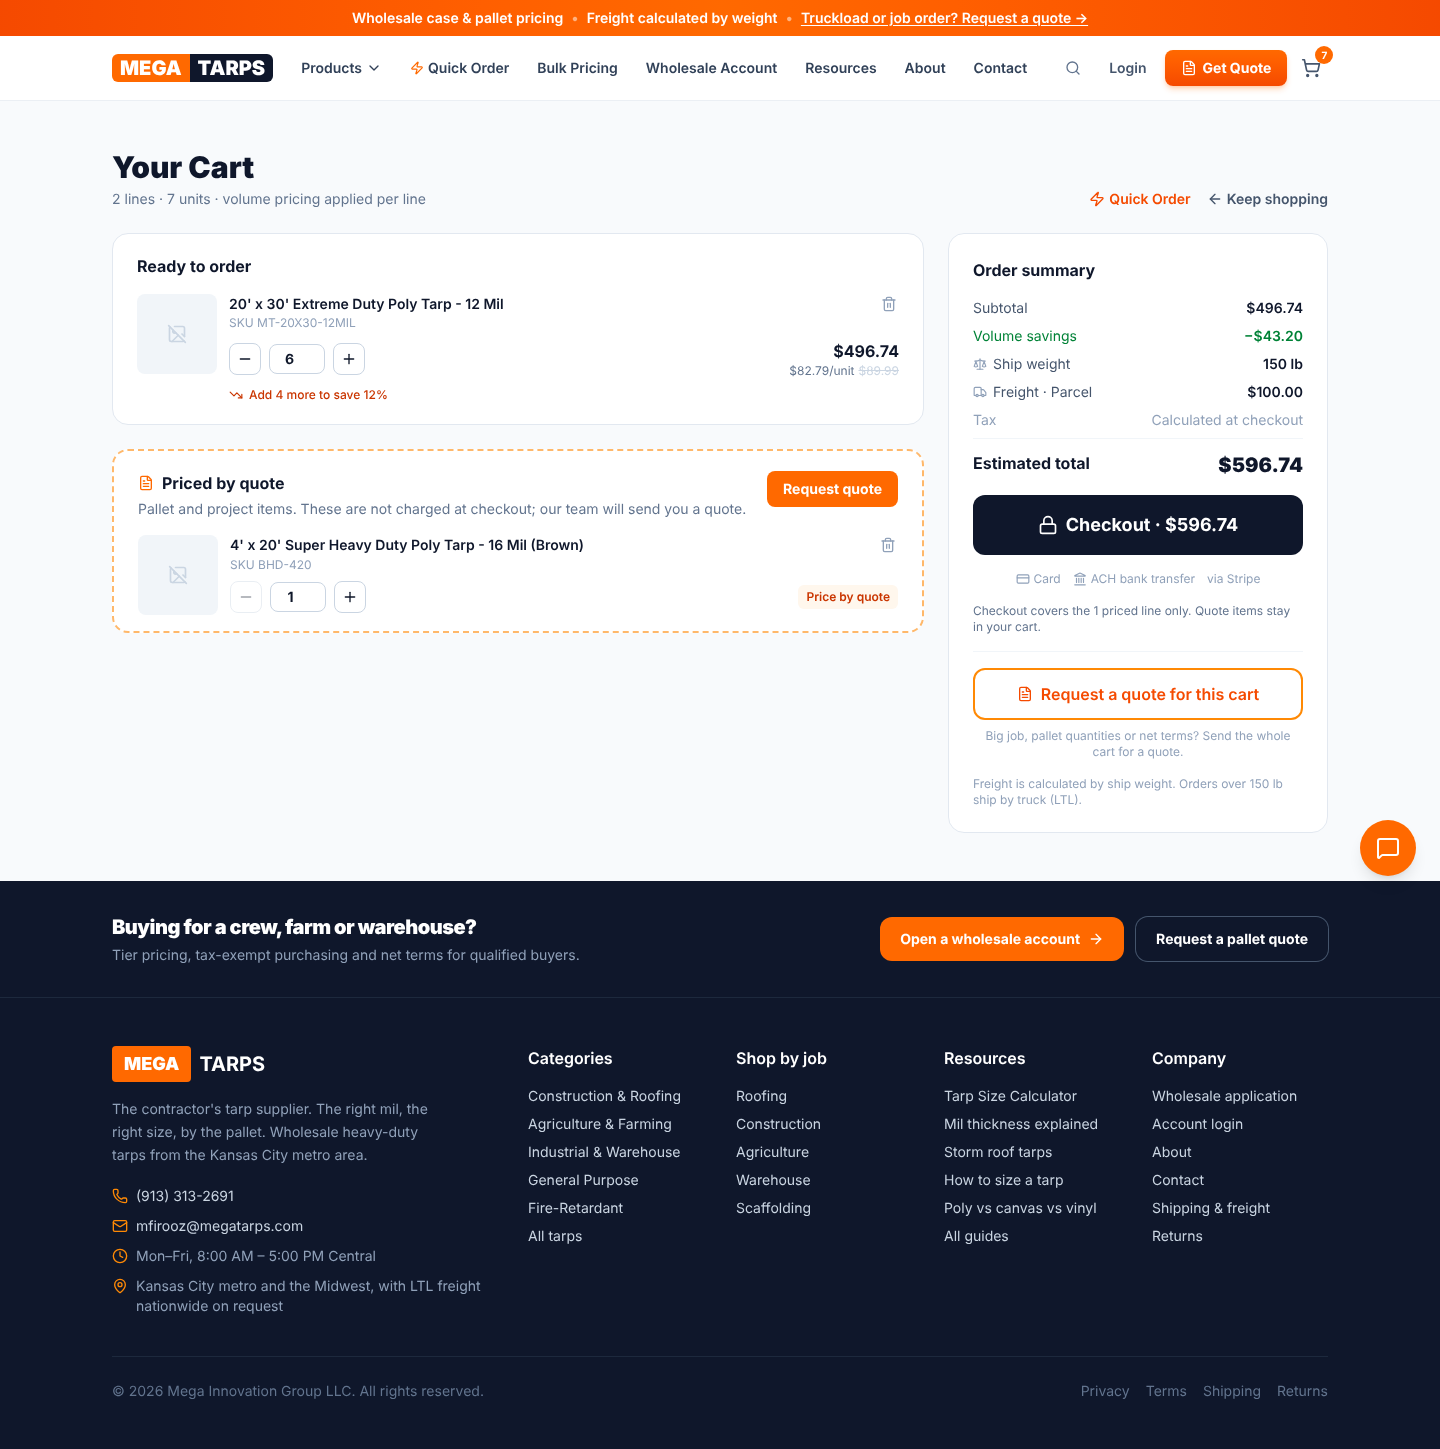
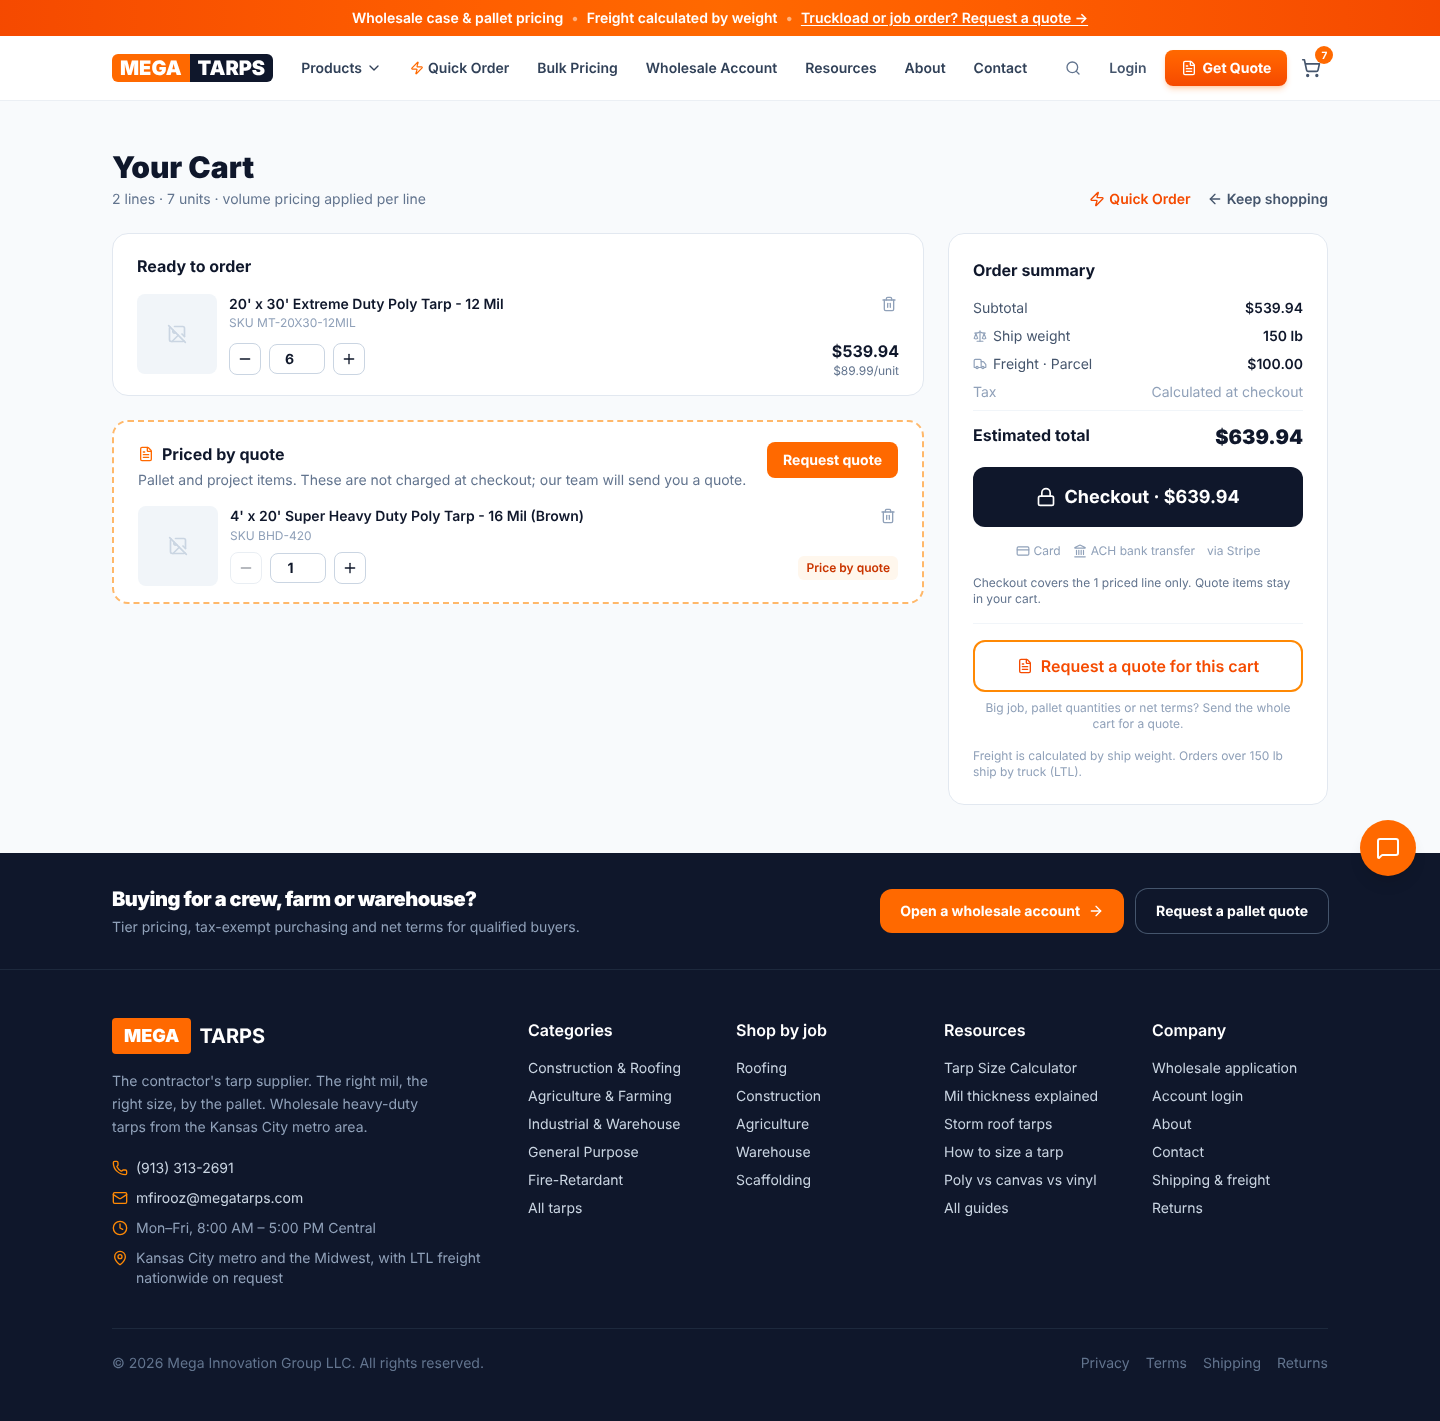
Volume nudge only when the real price drops (respects floor); tests updated for no-cost floor
Claude-Session: https://claude.ai/code/session_013JcUukvivuzMJVdLP954ex

diff --git a/src/lib/cart/tiers.ts b/src/lib/cart/tiers.ts
@@ -1,7 +1,7 @@
 // Display helpers built on the shared pricing engine (src/lib/pricing.ts). Client-safe.
-import { priceTiers, discountForQuantity, type PricingRule, type PriceOptions } from '@/lib/pricing'
+import { priceTiers, unitPriceCents, type PricingRule, type PriceOptions } from '@/lib/pricing'
 
-type Priceable = { retail_price_cents: number; tarp_type: string; thickness_mil: number | null }
+type Priceable = { retail_price_cents: number; tarp_type: string; thickness_mil: number | null } & Parameters<typeof unitPriceCents>[0]
 
 export interface NextTierNudge {
   addQty: number
@@ -9,12 +9,23 @@ export interface NextTierNudge {
   discountPercent: number
 }
 
-/** The next volume tier above `qty` that gives a deeper discount, if any. */
+/**
+ * The next volume tier above `qty` whose ACTUAL unit price (after the price floor and any
+ * account pricing) is lower than today's. Never nudges when the floor makes the "discount" zero.
+ */
 export function nextTier(product: Priceable, qty: number, rules: PricingRule[], opts: PriceOptions = {}): NextTierNudge | null {
-  const current = discountForQuantity(product, qty, rules)
-  const next = priceTiers(product, rules, opts).find((t) => t.min_quantity > qty && t.discount_percent > current)
-  if (!next) return null
-  return { addQty: next.min_quantity - qty, atQty: next.min_quantity, discountPercent: next.discount_percent }
+  const currentUnit = unitPriceCents(product, qty, rules, opts)
+  if (!currentUnit) return null
+  for (const t of priceTiers(product, rules, opts)) {
+    if (t.min_quantity <= qty) continue
+    const unit = unitPriceCents(product, t.min_quantity, rules, opts)
+    if (unit < currentUnit) {
+      const pct = Math.round(((currentUnit - unit) / currentUnit) * 100)
+      if (pct < 1) continue
+      return { addQty: t.min_quantity - qty, atQty: t.min_quantity, discountPercent: pct }
+    }
+  }
+  return null
 }
 
 export interface PackPreset {
@@ -36,8 +47,11 @@ export function packPresets(
   if (product.units_per_half_pallet) presets.push({ label: `½ pallet (${product.units_per_half_pallet})`, qty: product.units_per_half_pallet })
   if (product.units_per_full_pallet) presets.push({ label: `Pallet (${product.units_per_full_pallet})`, qty: product.units_per_full_pallet })
   if (presets.length === 1) {
+    const base = unitPriceCents(product, 1, rules)
     for (const t of priceTiers(product, rules)) {
-      if (t.min_quantity > 1 && t.discount_percent > 0) presets.push({ label: `${t.min_quantity} · −${t.discount_percent}%`, qty: t.min_quantity })
+      const unit = unitPriceCents(product, t.min_quantity, rules)
+      const pct = base ? Math.round(((base - unit) / base) * 100) : 0
+      if (t.min_quantity > 1 && pct >= 1) presets.push({ label: `${t.min_quantity} · −${pct}%`, qty: t.min_quantity })
     }
   }
   return presets.slice(0, 5)
